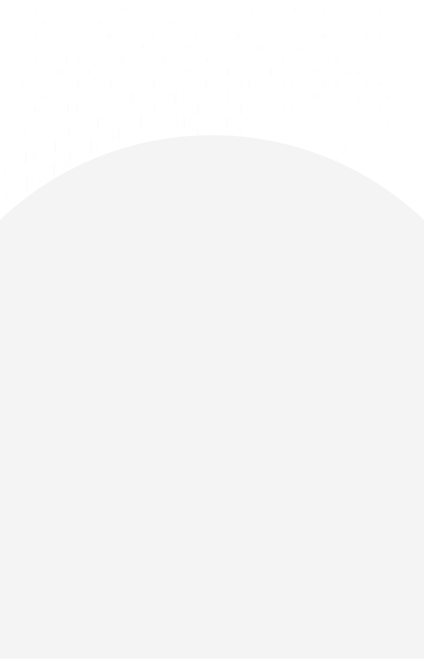
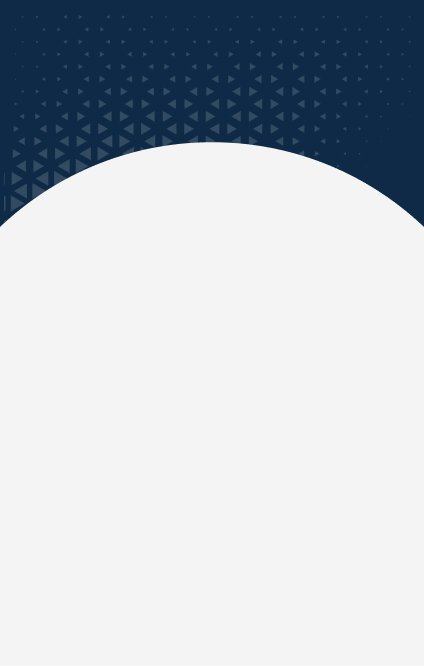
update pricing tables

Changed region(s): [[0.0, 0.0, 1.0, 0.3338]]

diff --git a/pricePage.html b/pricePage.html
@@ -99,38 +99,74 @@
         </div>
     </main>
 <!-- Content Section -->
-<!-- <section class="prices-section d-flex g-4 py-5 justify-content-center">
-    <div class="row">
-        <div class="col-sm-6 col-lg-4">
-          <div class="card">
-            <div class="card-body">
-              <h5 class="card-title">Special title treatment</h5>
-              <p class="card-text">With supporting text below as a natural lead-in to additional content.</p>
-              <a href="#" class="btn btn-primary">Go somewhere</a>
-            </div>
+<div class="container my-5">
+  <div class="row justify-content-center">
+      <!-- Basic Plan -->
+      <div class="col-md-4">
+          <div class="card pricing-card">
+            <div class="pricing-header">
+              <h5>BASIC PLAN</h5>
           </div>
-        </div>
-        <div class="col-sm-6 col-lg-4">
-            <div class="card">
-                <div class="card-body">
-                  <h5 class="card-title">Special title treatment</h5>
-                  <p class="card-text">With supporting text below as a natural lead-in to additional content.</p>
-                  <a href="#" class="btn btn-primary">Go somewhere</a>
-                </div>
-              </div>
-        </div>
-        <div class="col-sm-6 col-lg-4">
-            <div class="card">
-                <div class="card-body">
-                  <h5 class="card-title">Special title treatment</h5>
-                  <p class="card-text">With supporting text below as a natural lead-in to additional content.</p>
-                  <a href="#" class="btn btn-primary">Go somewhere</a>
-                </div>
-              </div>
+              <div class="price-circle">20 <span>Month</span></div>
+              <p class="justify-content-center">Advanced features for pros who need <br>
+                more customization.</p>
+              <ul class="pricing-features">
+                  <li><i class="fa-solid fa-check"></i> 7-Days Shipping World Wide</li>
+                  <li><i class="fa-solid fa-check"></i> 3 Kg Weight Max / Package</li>
+                  <li><i class="fa-solid fa-check"></i> Free Wood Crate</li>
+                  <li><i class="fa-solid fa-check"></i> Get in touch to discuss</li>
+                  <li><i class="fa-solid fa-check"></i> Use Personal And Commercial</li>
+                  <li><i class="fa-solid fa-check"></i> 24/7 Support</li>
+                  <button class="btn purchase-btn justify-content-center"><a href="#">PURCHASE NOW</a></button>
+                </ul>
           </div>
       </div>
-</section> -->
+  
 
+      <!-- Standard Plan -->
+      <div class="col-md-4">
+          <div class="card pricing-standard">
+              <div class="pricing-header">
+                  <h5>STANDARD PLAN</h5>
+              </div>
+              <div class="price-standard">20 <span>Month</span></div>
+              <p>Advanced features for pros who need <br>
+                more customization.</p>
+              <ul class="standard">
+                  <li><i class="fa-solid fa-check"></i> 7-Days Shipping World Wide</li>
+                  <li><i class="fa-solid fa-check"></i> 3 Kg Weight Max / Package</li>
+                  <li><i class="fa-solid fa-check"></i> Free Wood Crate</li>
+                  <li><i class="fa-solid fa-check"></i> Get in touch to discuss</li>
+                  <li><i class="fa-solid fa-check"></i> Use Personal And Commercial</li>
+                  <li><i class="fa-solid fa-check"></i> 24/7 Support</li>
+                  <button class="btn standard-btn justify-content-center">PURCHASE NOW</button>
+                </ul>
+          </div>
+      </div>
+
+      <!-- Premium Plan -->
+      <div class="col-md-4">
+          <div class="card pricing-card">
+              <div class="pricing-header">
+                  <h5>PREMIUM PLAN</h5>
+              </div>
+              <div class="price-circle">20 <span>Month</span></div>
+              <p class="justify-content-center">Advanced features for pros who need <br>
+                more customization.</p>
+              <ul class="pricing-features">
+                  <li><i class="fa-solid fa-check"></i> 7-Days Shipping World Wide</li>
+                  <li><i class="fa-solid fa-check"></i> 3 Kg Weight Max / Package</li>
+                  <li><i class="fa-solid fa-check"></i> Free Wood Crate</li>
+                  <li><i class="fa-solid fa-check"></i> Get in touch to discuss</li>
+                  <li><i class="fa-solid fa-check"></i> Use Personal And Commercial</li>
+                  <li><i class="fa-solid fa-check"></i> 24/7 Support</li>
+                  <button class="btn purchase-btn justify-content-center"><a href="#">PURCHASE NOW</a></button>
+                </ul>
+          </div>
+      </div>
+
+  </div>
+</div>
 
 
 

diff --git a/style.css b/style.css
@@ -1478,9 +1478,180 @@ color: #FFFFFF;
 background-color: #7768E5;
 }
 /* Pricing Tables Page */
-/* .prices-section .card{
-background: url('assets/images/prices/price1.png') no-repeat center/cover;
-background-color: #0E2A46;
-width: 400px;
-height: 600px;
-} */
+.pricing-card {
+    background:url('assets/images/prices/price1.png') no-repeat center/cover;
+    text-align: center;
+    margin: 10px;
+    position: relative;
+}
+.pricing-standard{
+    background:url('assets/images/prices/price2.png') no-repeat center/cover;
+    text-align: center;
+    margin: 10px;
+    position: relative;
+}
+.pricing-standard p{
+font-weight: 400;
+font-size: 16px;
+line-height: 30px;
+text-transform: capitalize;
+color: #FFFFFF;
+}
+
+.pricing-header {
+    background: #7768E5;
+    color: #FFFFFF;
+    padding: 10px;
+    text-transform: uppercase;
+    font-weight: 600;
+    font-size: 20px;
+    line-height: 50px;
+    transform: translateX(20%) translateY(-20%);
+    width: 70%;
+    text-align: center;
+}
+.price-circle {
+    background: #FFFFFF;
+    color: #FC6441;
+    padding: 20px;
+    width: 80px;
+    height: 80px;
+    border: 2px solid #7768E5;
+    border-radius: 50%;
+    font-size: 20px;
+    font-weight: bold;
+    display: flex;
+    align-items: center;
+    justify-content: center;
+    margin: 10px auto;
+}
+.price-circle span {
+font-weight: 400;
+font-size: 10px;
+line-height: 130px;
+text-transform: capitalize;
+color: #0E2A46;
+}
+.price-standard {
+    background: #FFFFFF;
+    color: #7768E5;
+    padding: 20px;
+    width: 80px;
+    height: 80px;
+    border: 2px solid #FC6441;
+    border-radius: 50%;
+    font-size: 20px;
+    font-weight: bold;
+    display: flex;
+    align-items: center;
+    justify-content: center;
+    margin: 10px auto;
+}
+.price-standard span{
+font-weight: 400;
+font-size: 10px;
+line-height: 130px;
+text-transform: capitalize;
+color: #0E2A46;
+}
+.pricing-card p{
+font-weight: 400;
+font-size: 16px;
+line-height: 30px;
+text-transform: capitalize;
+color: #4D5756;
+}
+
+.pricing-features {
+    list-style: none;
+    padding: 10px;
+    margin: 20px 0;
+    font-size: 14px;
+}
+.pricing-features .standard li{
+    justify-content: left;
+    align-items: left;
+    text-align: left;
+    padding: 10px;
+    font-size: 17px;
+    line-height: 17px;
+    color: #FFFF;
+}
+.pricing-features li {
+justify-content: left;
+align-items: left;
+text-align: left;
+padding: 10px;
+font-size: 17px;
+line-height: 17px;
+color: #0E2A46;
+}
+.pricing-features li i {
+font-weight: 900;
+font-size: 10px;
+line-height: 12px;
+color: #FC6441;
+border: 1px solid #FC6441;
+border-radius: 5px;
+}
+.pricing-standard .standard{
+    list-style: none;
+    padding: 10px;
+    margin: 20px 0;
+    font-size: 14px;
+}
+.pricing-standard .standard li{
+    justify-content: left;
+align-items: left;
+text-align: left;
+padding: 10px;
+font-size: 17px;
+line-height: 17px;
+color: #FFFFFF;
+}
+.pricing-standard .standard li i{
+    font-weight: 900;
+    font-size: 10px;
+    line-height: 12px;
+    color: #FC6441;
+    border: 1px solid #FC6441;
+    border-radius: 5px; 
+}
+.purchase-btn {
+background: #7768E5;
+width: 80%;
+border-radius: 5px;
+padding: 10px;
+margin-top: 10px;
+justify-content: center;
+align-items: center;
+text-align: center;
+transition: ease-in-out;
+}
+.purchase-btn a{
+text-decoration: none;
+justify-content: center;
+align-items: center;
+text-align: center;
+color: #FFFF;
+}
+.purchase-btn:hover{
+background: linear-gradient(45deg, #a855f7, #6a5acd);
+color: white;
+}
+.standard-btn {
+background: #FC6441;
+width: 80%;
+border-radius: 5px;
+padding: 10px;
+margin-top: 10px;
+justify-content: center;
+align-items: center;
+text-align: center;
+color: white;
+transition: ease-in-out;
+}
+.standard-btn:hover{
+background: linear-gradient(45deg, #f7502b, #ec785e);
+color: white;
+}
